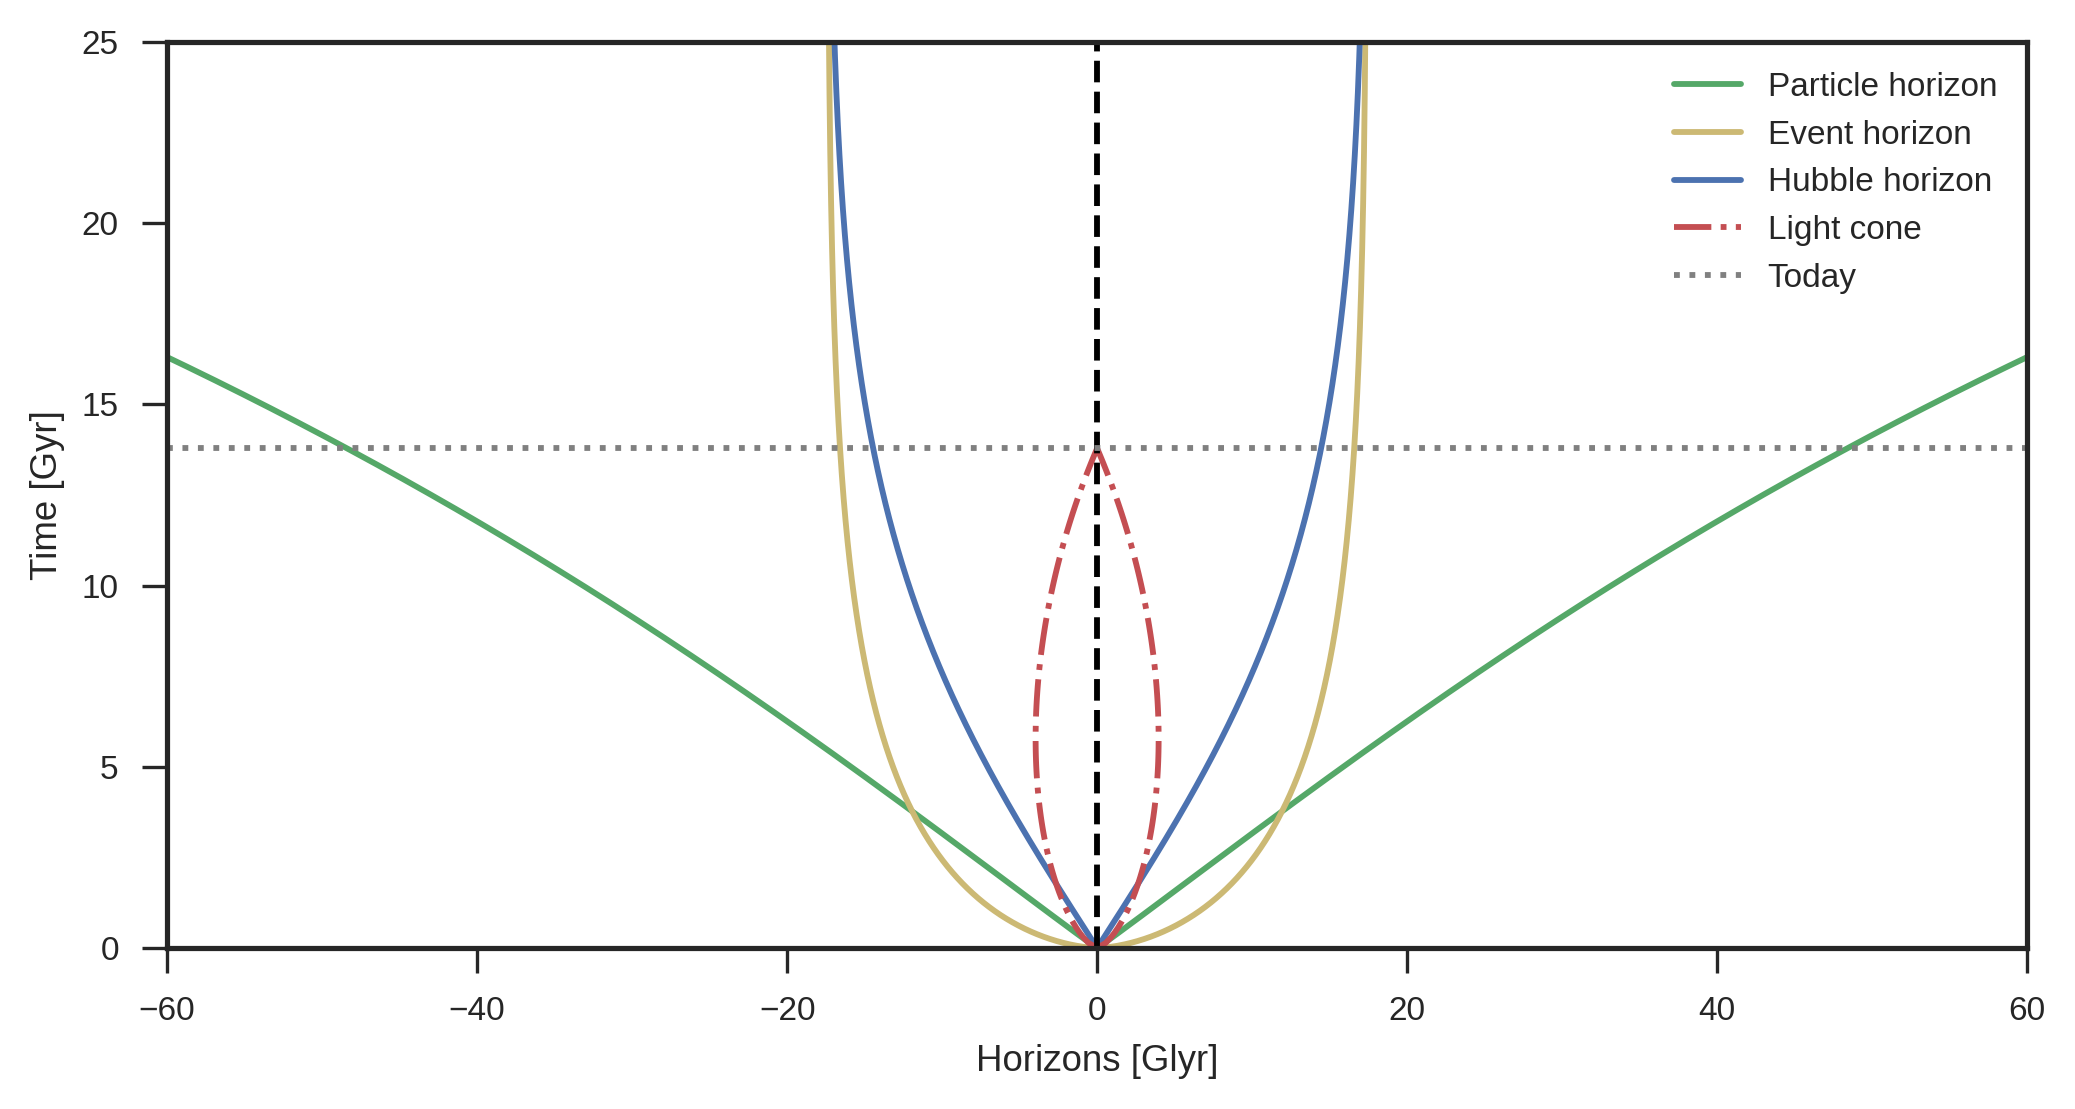
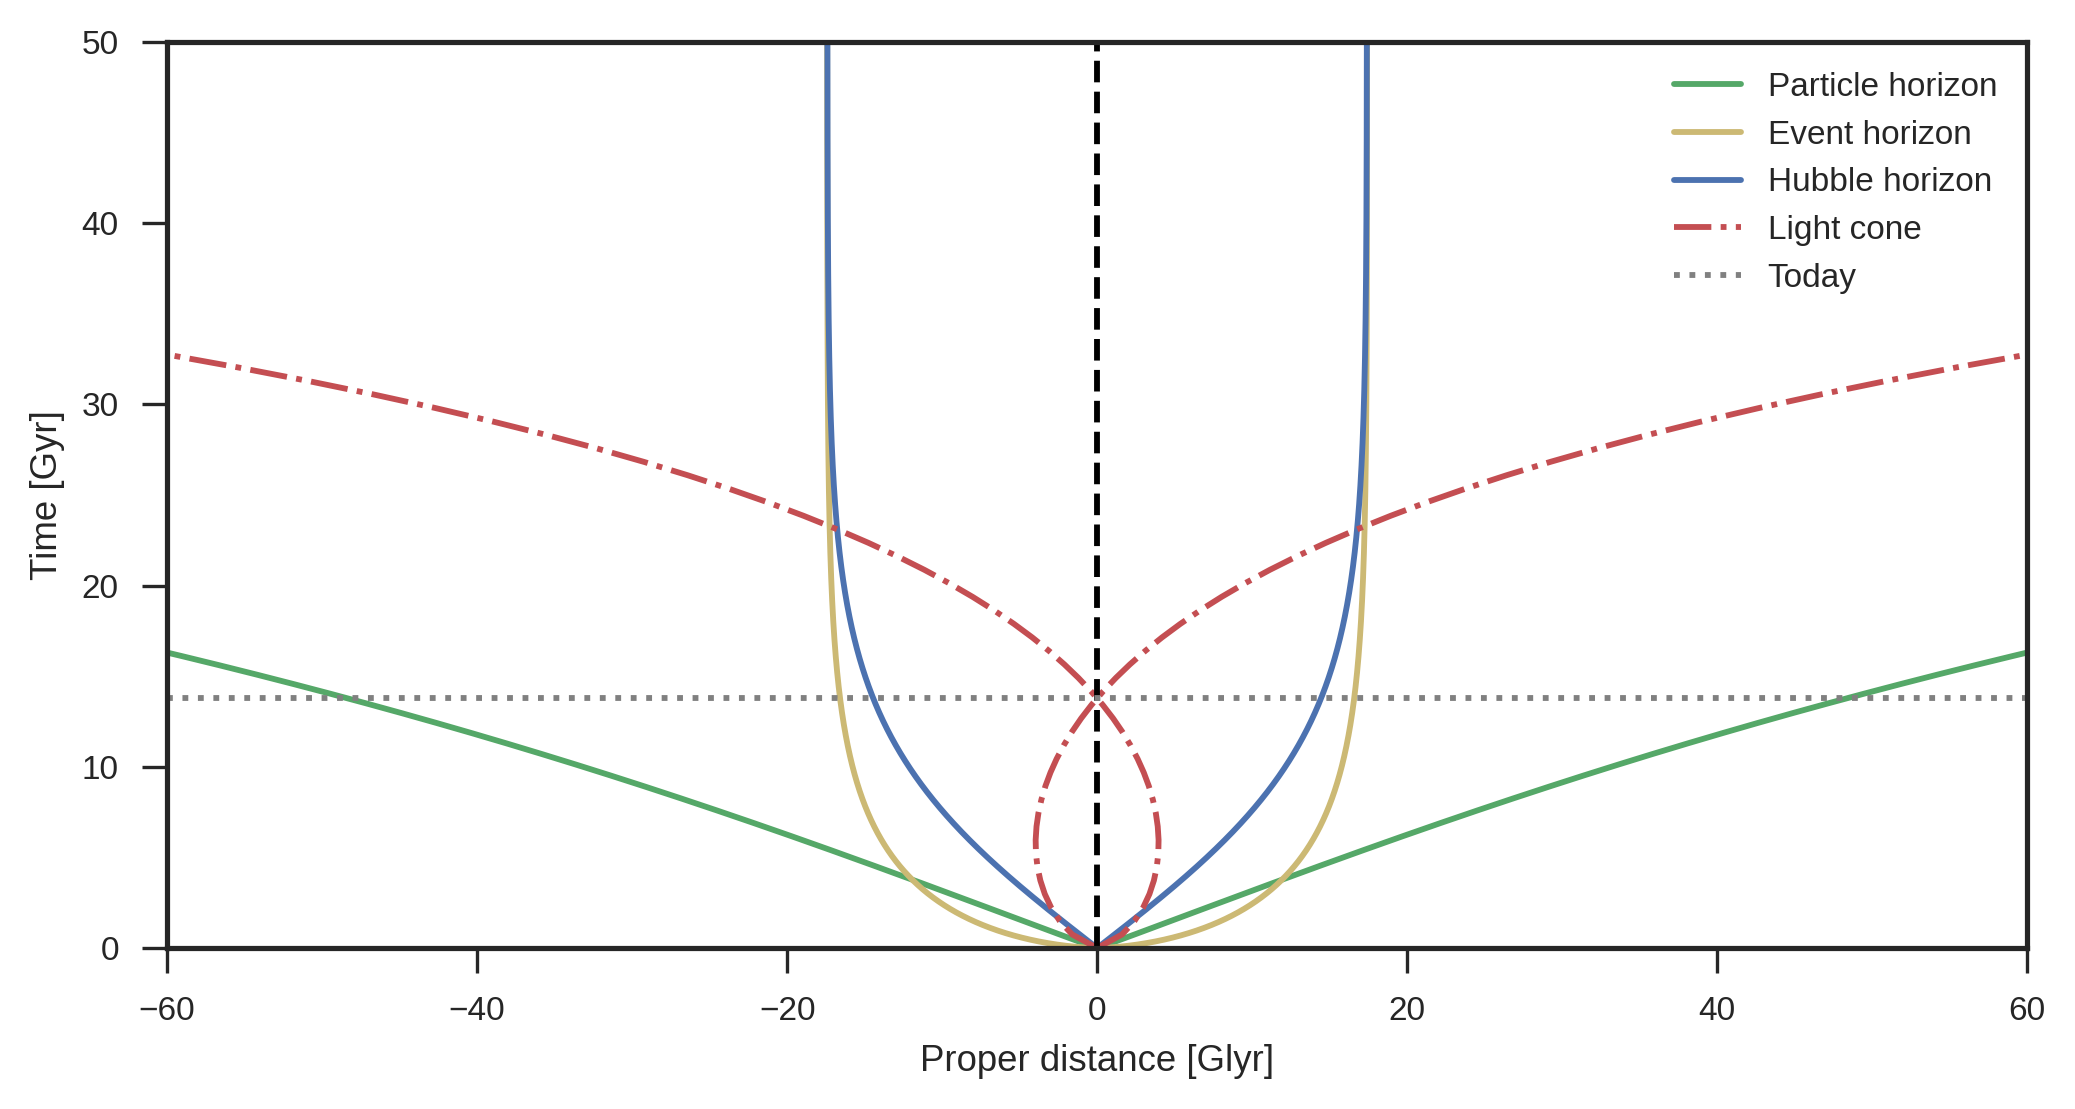
update

diff --git a/codes/cosmo/horizons.md b/codes/cosmo/horizons.md
@@ -104,11 +104,12 @@ Another remark is that the event horizon can diverge and be infinite.
 ## The $\Lambda$CMD case 
 Take the example of the $\Lambda$CDM cosmology using Planck parameters.
 
-   ![my image](./images/LCDMhorizons.png)
-  
+   ![my image](./images/LCDMhorizons.png "my image") 
   
 We can give a value for today horizons : in present time the particle is at ~ 48 Glyrs, the event horizon is at ~ 17 Glyrs and the Hubble horizon is at ~ 14 Glyrs.
 
 Looking at the particle horizon we can see that due to expansion it's distance increase rapdily, it means that the farthest light we can see was emits by objects that are today at 48 Glyrs of us ! In our expansing universe the particle univers will tend to infinity.
 
 Another remark is that the event horizon is greater than the Hubble distance : photons that lie between the two are currently receeding at supra-light speed but we will finally saw them as they will enter in the Hubble horizon ! 
+
+Something that can be strange is that our future light-cone seems to cross the envent horizon : How can it be possible we can interact with what is beyond? What we have to remember is that if we emit a photon now it will never reach someone that is at the event horizon now, but the proper distance of the object at the event horizon will evolve during the photon travel and the photon will never reach it!
